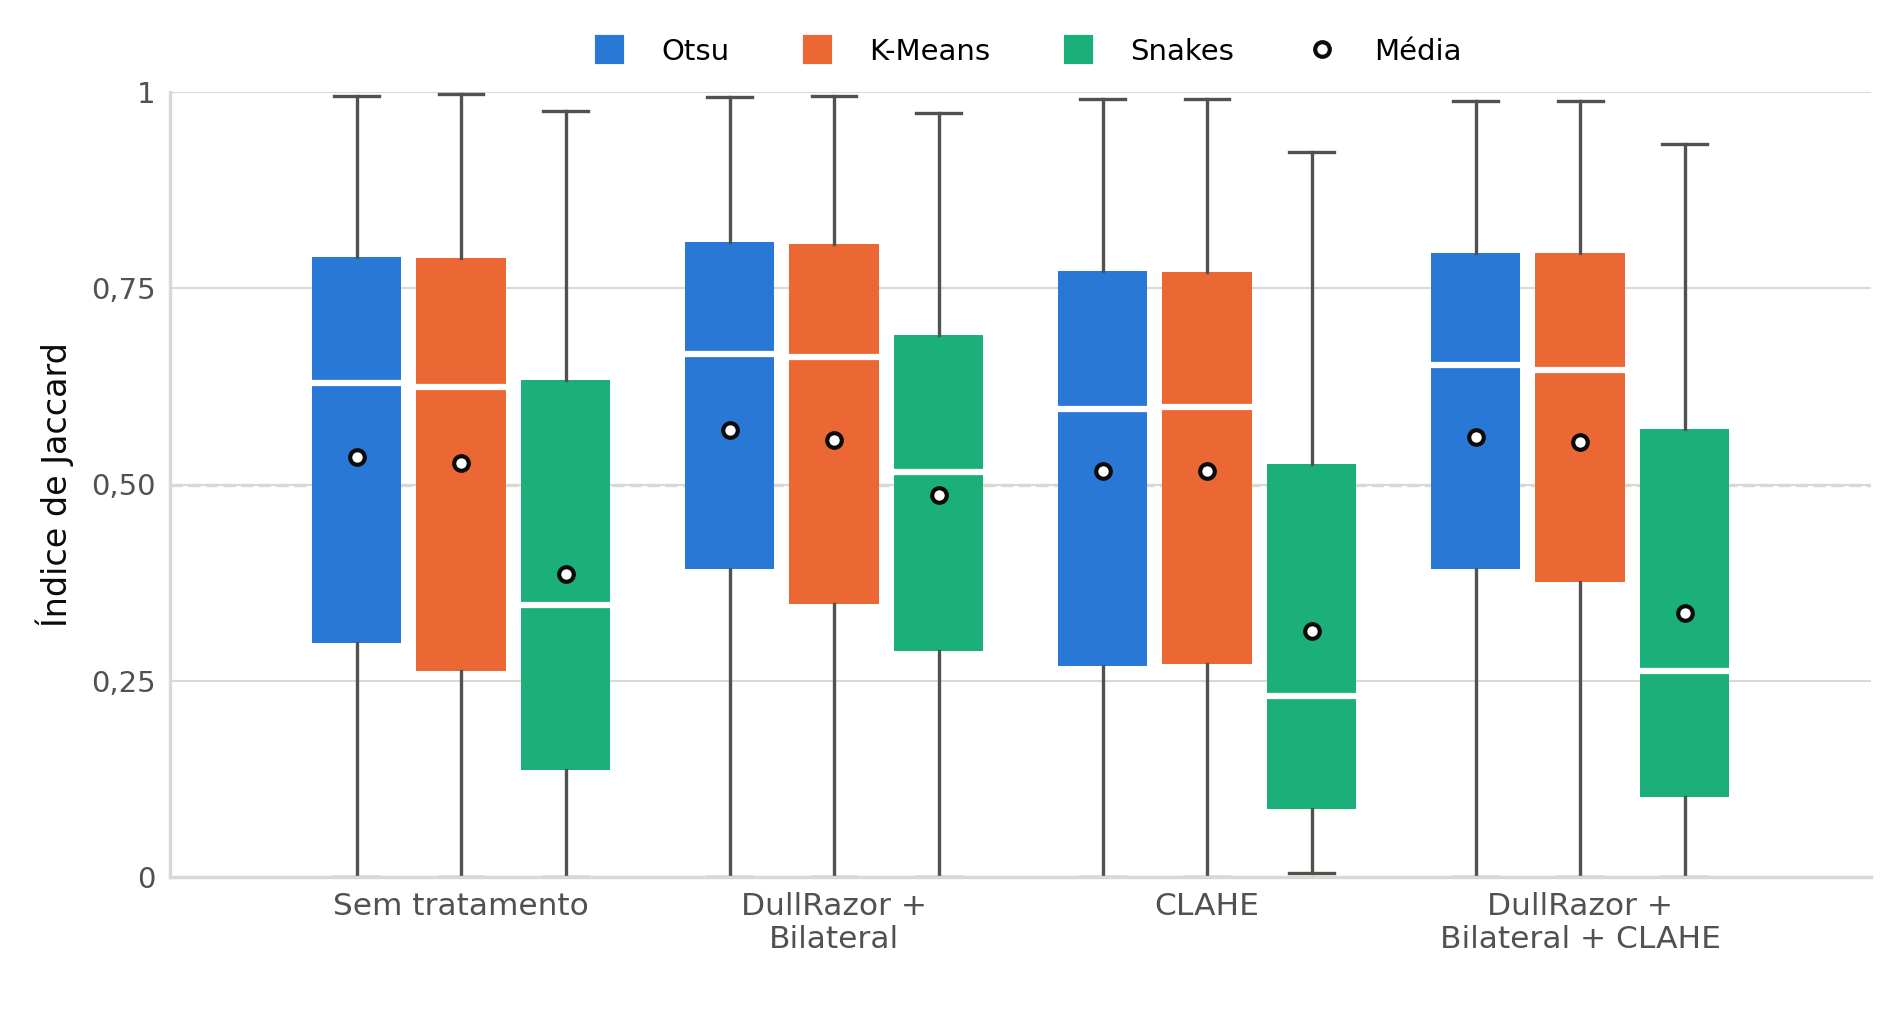
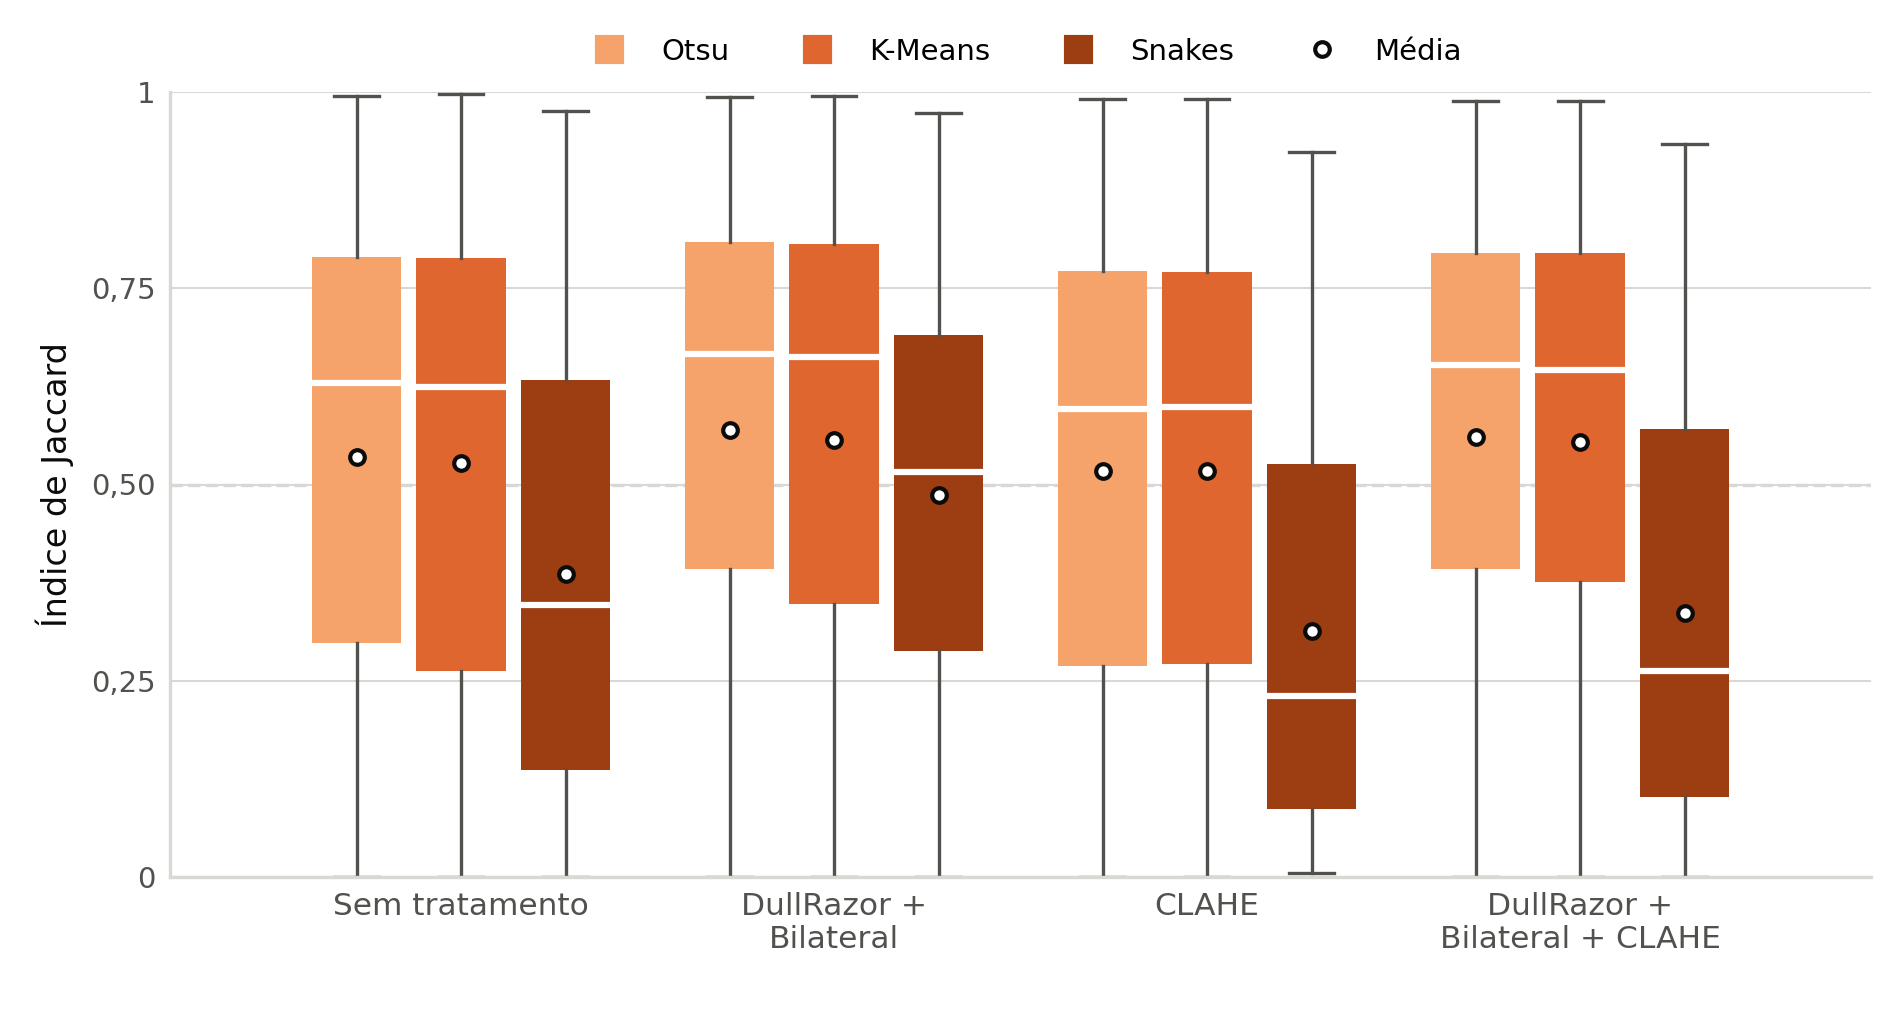
Padroniza as cores das figuras

diff --git a/src/stats/figuras.py b/src/stats/figuras.py
@@ -33,8 +33,9 @@ CORES_FAIXAS = ["#cde2fb", "#6da7ec", "#256abf", "#0d366b"]
 LIMITES = [0, 0.5, 0.75, 0.9, 1.0]
 NOMES_FAIXAS = ["Fraca (< 0,50)", "Moderada (0,50–0,75)",
                 "Boa (0,75–0,90)", "Excelente (≥ 0,90)"]
-COR_ABS, COR_CONS = "#2a78d6", "#eb6834"
-CORES_ALG = {"otsu": "#2a78d6", "kmeans": "#eb6834", "snakes": "#1baf7a"}
+# Paleta do trabalho: azul = ICC; verde = padrão-ouro; laranja = algoritmos
+COR_ABS, COR_CONS = CORES_FAIXAS[3], CORES_FAIXAS[1]
+CORES_ALG = {"otsu": "#f5a26b", "kmeans": "#e0662f", "snakes": "#9c3d12"}
 NOMES_ALG = {"otsu": "Otsu", "kmeans": "K-Means", "snakes": "Snakes"}
 RAMOS = ["sem_tratamento", "dullrazor_bilateral", "clahe",
          "dullrazor_bilateral_clahe"]
